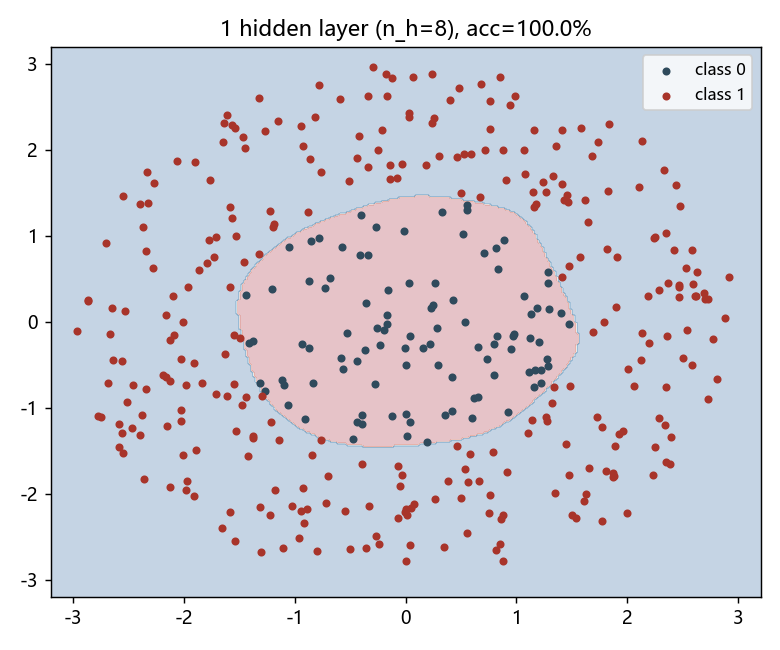
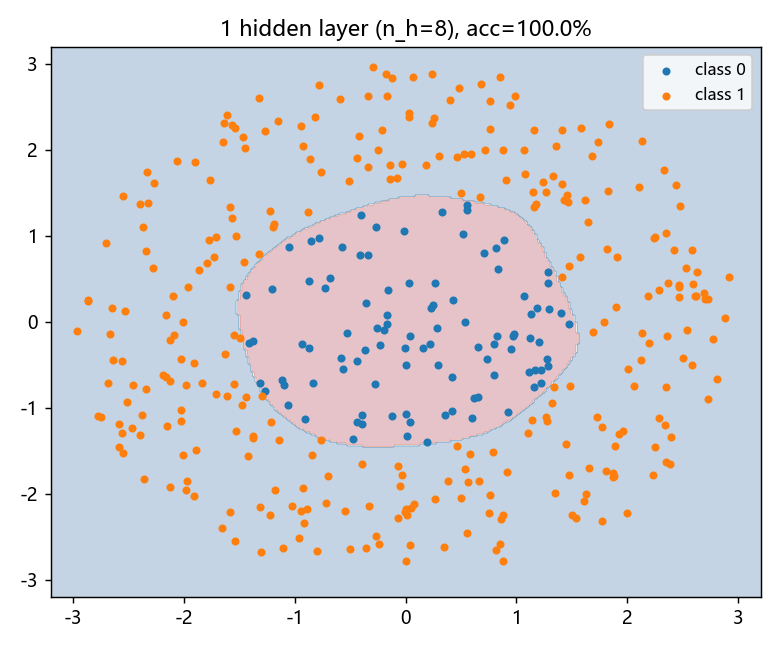
W3: 单隐藏层网络（干净版，无教学注释）

diff --git a/playground/nn_one_hidden_clean.py b/playground/nn_one_hidden_clean.py
@@ -1,0 +1,161 @@
+"""
+One-hidden-layer neural network (NumPy implementation).
+Binary classification on a synthetic two-class concentric-circle dataset.
+
+Architecture: 2 -> 8 (tanh) -> 1 (sigmoid)
+Loss: binary cross-entropy
+Optimizer: full-batch gradient descent
+
+Usage: python nn_one_hidden_clean.py
+"""
+
+import os
+
+import matplotlib
+import matplotlib.pyplot as plt
+import numpy as np
+
+matplotlib.use("Agg")
+plt.rcParams["font.sans-serif"] = ["Microsoft YaHei", "SimHei"]
+plt.rcParams["axes.unicode_minus"] = False
+
+HERE = os.path.dirname(os.path.abspath(__file__))
+np.random.seed(1)
+
+
+def load_data(m=400):
+    """Generate two concentric circles: label 0 inside (r <= 1.5), label 1 outside."""
+    theta = np.random.rand(m) * 2 * np.pi
+    r = np.sqrt(np.random.rand(m)) * 3
+    X = np.vstack((r * np.cos(theta), r * np.sin(theta)))
+    Y = (r > 1.5).astype(float).reshape(1, m)
+    return X, Y
+
+
+def initialize_parameters(n_x, n_h, n_y):
+    """Small random weights for W, zeros for b."""
+    W1 = np.random.randn(n_h, n_x) * 0.01
+    b1 = np.zeros((n_h, 1))
+    W2 = np.random.randn(n_y, n_h) * 0.01
+    b2 = np.zeros((n_y, 1))
+
+    assert W1.shape == (n_h, n_x)
+    assert b1.shape == (n_h, 1)
+    assert W2.shape == (n_y, n_h)
+    assert b2.shape == (n_y, 1)
+
+    return {"W1": W1, "b1": b1, "W2": W2, "b2": b2}
+
+
+def forward_propagation(X, params):
+    """Z1 = W1X + b1, A1 = tanh(Z1), Z2 = W2A1 + b2, A2 = sigmoid(Z2)."""
+    W1, b1, W2, b2 = params["W1"], params["b1"], params["W2"], params["b2"]
+
+    Z1 = W1 @ X + b1
+    A1 = np.tanh(Z1)
+    Z2 = W2 @ A1 + b2
+    A2 = 1 / (1 + np.exp(-Z2))
+
+    assert A2.shape == (1, X.shape[1])
+    cache = {"Z1": Z1, "A1": A1, "Z2": Z2, "A2": A2}
+    return A2, cache
+
+
+def compute_cost(A2, Y):
+    """Binary cross-entropy."""
+    m = Y.shape[1]
+    cost = -np.sum(Y * np.log(A2 + 1e-8) + (1 - Y) * np.log(1 - A2 + 1e-8)) / m
+    return float(np.squeeze(cost))
+
+
+def backward_propagation(params, cache, X, Y):
+    """Backpropagation; returns gradients with the same shapes as the parameters."""
+    m = X.shape[1]
+    W2 = params["W2"]
+    A1, A2 = cache["A1"], cache["A2"]
+
+    dZ2 = A2 - Y
+    dW2 = dZ2 @ A1.T / m
+    db2 = np.sum(dZ2, axis=1, keepdims=True) / m
+
+    dZ1 = (W2.T @ dZ2) * (1 - A1 ** 2)
+    dW1 = dZ1 @ X.T / m
+    db1 = np.sum(dZ1, axis=1, keepdims=True) / m
+
+    assert dW1.shape == params["W1"].shape
+    assert dW2.shape == params["W2"].shape
+    return {"dW1": dW1, "db1": db1, "dW2": dW2, "db2": db2}
+
+
+def update_parameters(params, grads, learning_rate):
+    """Vanilla gradient descent update."""
+    params["W1"] -= learning_rate * grads["dW1"]
+    params["b1"] -= learning_rate * grads["db1"]
+    params["W2"] -= learning_rate * grads["dW2"]
+    params["b2"] -= learning_rate * grads["db2"]
+    return params
+
+
+def nn_model(X, Y, n_h=8, num_iterations=10000, learning_rate=1.0):
+    """Train the network and return the parameters and the cost history."""
+    n_x = X.shape[0]
+    n_y = Y.shape[0]
+    params = initialize_parameters(n_x, n_h, n_y)
+    costs = []
+
+    for i in range(num_iterations):
+        A2, cache = forward_propagation(X, params)
+        cost = compute_cost(A2, Y)
+        grads = backward_propagation(params, cache, X, Y)
+        params = update_parameters(params, grads, learning_rate)
+
+        if i % 2000 == 0:
+            print(f"iteration {i:5d}    cost = {cost:.6f}")
+        costs.append(cost)
+
+    return params, costs
+
+
+def predict(params, X):
+    """Threshold the predicted probability at 0.5."""
+    A2, _ = forward_propagation(X, params)
+    return (A2 > 0.5).astype(int)
+
+
+def main():
+    X, Y = load_data(400)
+    print(f"X: {X.shape}   Y: {Y.shape}\n")
+
+    params, costs = nn_model(X, Y, n_h=8, num_iterations=10000, learning_rate=1.0)
+
+    acc = np.mean(predict(params, X) == Y) * 100
+    print(f"\ntrain accuracy: {acc:.2f}%")
+
+    # decision boundary
+    xx, yy = np.meshgrid(np.linspace(-3.2, 3.2, 300), np.linspace(-3.2, 3.2, 300))
+    grid = np.vstack((xx.ravel(), yy.ravel()))
+    Z = predict(params, grid).reshape(xx.shape)
+
+    plt.figure(figsize=(6, 5))
+    plt.contourf(xx, yy, Z, alpha=0.25, cmap="RdBu")
+    plt.scatter(X[0, Y[0] == 0], X[1, Y[0] == 0], s=12, label="class 0")
+    plt.scatter(X[0, Y[0] == 1], X[1, Y[0] == 1], s=12, label="class 1")
+    plt.legend(loc="upper right", fontsize=9)
+    plt.title(f"1 hidden layer (n_h=8), acc={acc:.1f}%")
+    plt.tight_layout()
+    plt.savefig(os.path.join(HERE, "nn_boundary.png"), dpi=130)
+
+    # cost curve
+    plt.figure(figsize=(6, 4))
+    plt.plot(costs)
+    plt.xlabel("iteration")
+    plt.ylabel("cost")
+    plt.title("training cost")
+    plt.tight_layout()
+    plt.savefig(os.path.join(HERE, "nn_cost.png"), dpi=130)
+
+    print("saved: nn_boundary.png, nn_cost.png")
+
+
+if __name__ == "__main__":
+    main()
